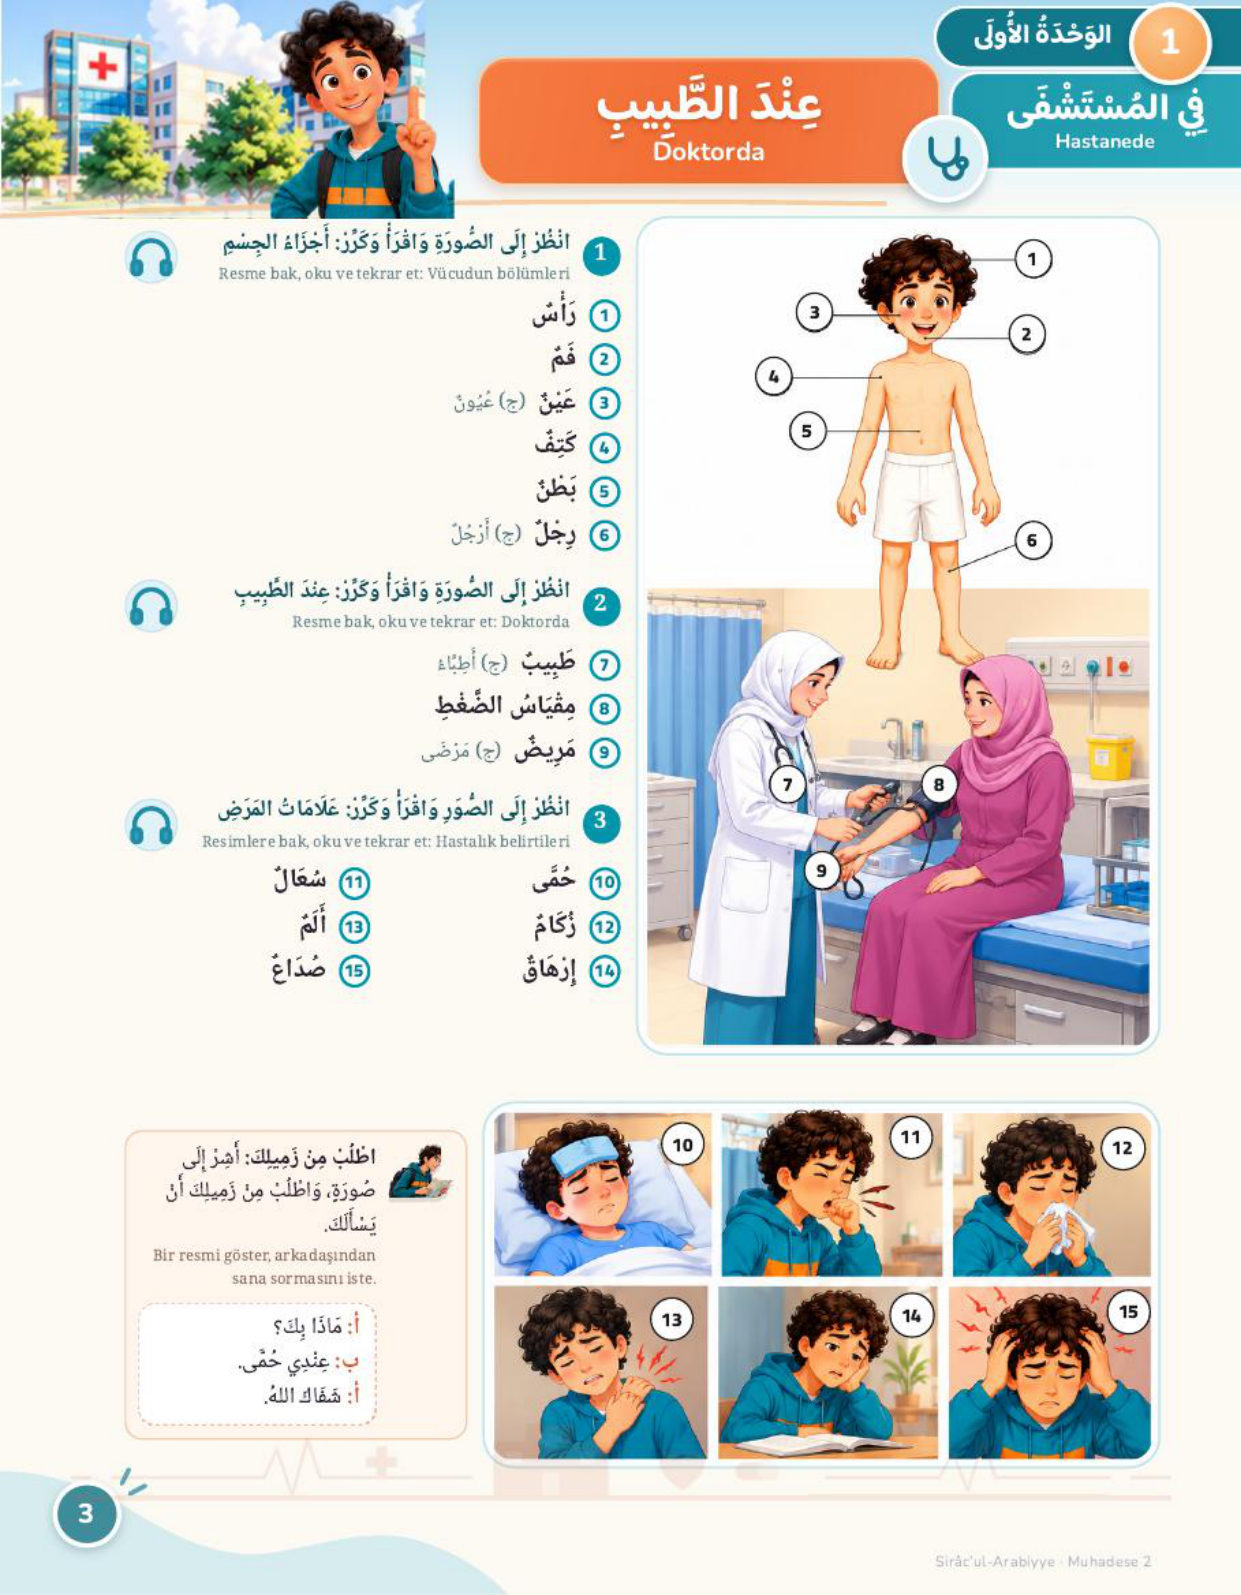
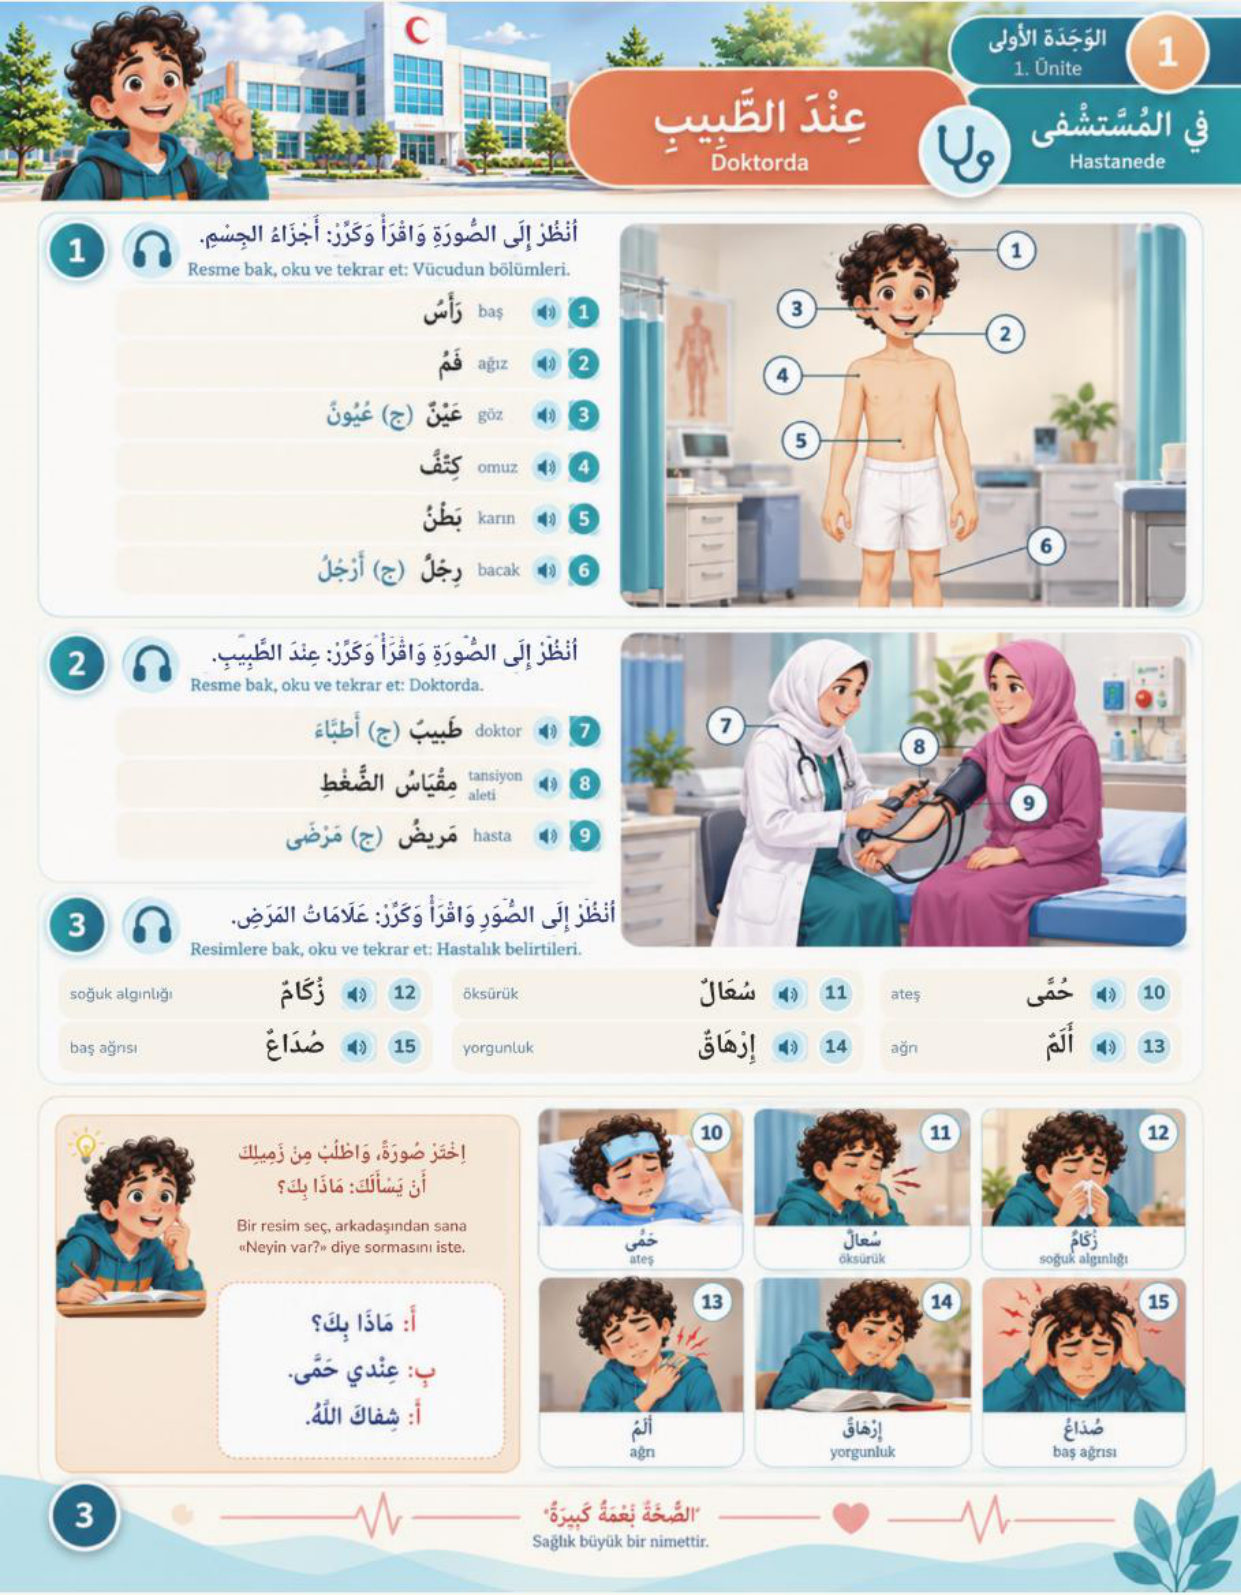
Refresh on unit v41: new L1 p3 tap areas
Claude-Session: https://claude.ai/code/session_01PtPBA3hjiGrZbtaJkVMsKM

diff --git a/l1/book/index.html b/l1/book/index.html
@@ -24,7 +24,7 @@ main{max-width:900px;margin:0 auto;padding:12px 8px 40px;display:flex;flex-direc
 <p class="hint">اضغط على السماعة أو الجملة أو الصورة لتسمع وتشاهد · Dinlemek için dokun</p>
 <section class="pg" id="p1"><img src="p01.jpg" width="1241" height="1595" alt="صفحة 1"></section>
 <section class="pg" id="p2"><img src="p02.jpg" width="1241" height="1595" alt="صفحة 2"><button class="hs" style="left:61.82%;top:15.94%;width:4.37%;height:4.57%" data-src="../a/L1-p02-all.mp3" aria-label="تشغيل"></button><button class="hs" style="left:61.31%;top:20.9%;width:28.05%;height:4.96%" data-src="../a/p02-v01.mp3" aria-label="تشغيل"></button><button class="hs" style="left:61.31%;top:26.91%;width:28.05%;height:4.96%" data-src="../a/p02-v02.mp3" aria-label="تشغيل"></button><button class="hs" style="left:61.31%;top:32.79%;width:28.05%;height:4.96%" data-src="../a/p02-v03.mp3" aria-label="تشغيل"></button><button class="hs" style="left:61.31%;top:38.8%;width:28.05%;height:4.96%" data-src="../a/p02-v04.mp3" aria-label="تشغيل"></button><button class="hs" style="left:61.31%;top:44.68%;width:28.05%;height:4.96%" data-src="../a/p02-v05.mp3" aria-label="تشغيل"></button><button class="hs" style="left:61.31%;top:50.69%;width:28.05%;height:4.96%" data-src="../a/p02-v06.mp3" aria-label="تشغيل"></button><button class="hs" style="left:61.31%;top:56.57%;width:28.05%;height:4.96%" data-src="../a/p02-v07.mp3" aria-label="تشغيل"></button><button class="hs" style="left:61.31%;top:62.45%;width:28.05%;height:4.96%" data-src="../a/p02-v08.mp3" aria-label="تشغيل"></button></section>
-<section class="pg" id="p3"><img src="p03.jpg" width="1241" height="1595" alt="صفحة 3" loading=lazy><button class="hs" style="left:9.58%;top:13.85%;width:5.54%;height:4.44%" data-src="../a/L1-p03-all.mp3" aria-label="تشغيل"></button><button class="hs" style="left:9.58%;top:35.8%;width:5.54%;height:4.44%" data-src="../a/L1-p03-all.mp3" aria-label="تشغيل"></button><button class="hs" style="left:9.58%;top:49.52%;width:5.54%;height:4.44%" data-src="../a/L1-p03-all.mp3" aria-label="تشغيل"></button><button class="hs" style="left:33.6%;top:18.29%;width:16.8%;height:2.61%" data-src="../a/p03-w01.mp3" aria-label="تشغيل"></button><button class="hs" style="left:33.6%;top:21.1%;width:16.8%;height:2.61%" data-src="../a/p03-w02.mp3" aria-label="تشغيل"></button><button class="hs" style="left:33.6%;top:23.84%;width:16.8%;height:2.61%" data-src="../a/p03-w03.mp3" aria-label="تشغيل"></button><button class="hs" style="left:33.6%;top:26.65%;width:16.8%;height:2.61%" data-src="../a/p03-w04.mp3" aria-label="تشغيل"></button><button class="hs" style="left:33.6%;top:29.4%;width:16.8%;height:2.61%" data-src="../a/p03-w05.mp3" aria-label="تشغيل"></button><button class="hs" style="left:33.6%;top:32.14%;width:16.8%;height:2.61%" data-src="../a/p03-w06.mp3" aria-label="تشغيل"></button><button class="hs" style="left:33.6%;top:40.37%;width:16.8%;height:2.61%" data-src="../a/p03-w07.mp3" aria-label="تشغيل"></button><button class="hs" style="left:33.6%;top:43.11%;width:16.8%;height:2.61%" data-src="../a/p03-w08.mp3" aria-label="تشغيل"></button><button class="hs" style="left:33.6%;top:45.73%;width:16.8%;height:2.61%" data-src="../a/p03-w09.mp3" aria-label="تشغيل"></button><button class="hs" style="left:37.29%;top:54.02%;width:13.1%;height:2.61%" data-src="../a/p03-w10.mp3" aria-label="تشغيل"></button><button class="hs" style="left:20.16%;top:54.02%;width:11.76%;height:2.61%" data-src="../a/p03-w11.mp3" aria-label="تشغيل"></button><button class="hs" style="left:37.29%;top:56.83%;width:13.1%;height:2.61%" data-src="../a/p03-w12.mp3" aria-label="تشغيل"></button><button class="hs" style="left:20.16%;top:56.83%;width:11.76%;height:2.61%" data-src="../a/p03-w13.mp3" aria-label="تشغيل"></button><button class="hs" style="left:37.29%;top:59.58%;width:13.1%;height:2.61%" data-src="../a/p03-w14.mp3" aria-label="تشغيل"></button><button class="hs" style="left:20.16%;top:59.58%;width:11.76%;height:2.61%" data-src="../a/p03-w15.mp3" aria-label="تشغيل"></button></section>
+<section class="pg" id="p3"><img src="p03.jpg" width="1241" height="1595" alt="صفحة 3" loading=lazy><button class="hs" style="left:9.58%;top:13.2%;width:5.38%;height:4.18%" data-src="../a/L1-p03-all.mp3" aria-label="تشغيل"></button><button class="hs" style="left:9.58%;top:39.72%;width:5.38%;height:4.18%" data-src="../a/L1-p03-all.mp3" aria-label="تشغيل"></button><button class="hs" style="left:9.58%;top:54.35%;width:5.38%;height:4.18%" data-src="../a/L1-p03-all.mp3" aria-label="تشغيل"></button><button class="hs" style="left:9.24%;top:18.55%;width:40.32%;height:2.61%" data-src="../a/p03-w01.mp3" aria-label="تشغيل"></button><button class="hs" style="left:9.24%;top:21.3%;width:40.32%;height:2.61%" data-src="../a/p03-w02.mp3" aria-label="تشغيل"></button><button class="hs" style="left:9.24%;top:24.3%;width:40.32%;height:2.61%" data-src="../a/p03-w03.mp3" aria-label="تشغيل"></button><button class="hs" style="left:9.24%;top:27.57%;width:40.32%;height:2.61%" data-src="../a/p03-w04.mp3" aria-label="تشغيل"></button><button class="hs" style="left:9.24%;top:30.96%;width:40.32%;height:2.61%" data-src="../a/p03-w05.mp3" aria-label="تشغيل"></button><button class="hs" style="left:9.24%;top:34.23%;width:40.32%;height:2.61%" data-src="../a/p03-w06.mp3" aria-label="تشغيل"></button><button class="hs" style="left:9.24%;top:43.9%;width:40.32%;height:2.61%" data-src="../a/p03-w07.mp3" aria-label="تشغيل"></button><button class="hs" style="left:9.24%;top:47.16%;width:40.32%;height:2.61%" data-src="../a/p03-w08.mp3" aria-label="تشغيل"></button><button class="hs" style="left:9.24%;top:50.56%;width:40.32%;height:2.61%" data-src="../a/p03-w09.mp3" aria-label="تشغيل"></button><button class="hs" style="left:71.39%;top:60.62%;width:27.72%;height:2.61%" data-src="../a/p03-w10.mp3" aria-label="تشغيل"></button><button class="hs" style="left:36.12%;top:60.62%;width:34.44%;height:2.61%" data-src="../a/p03-w11.mp3" aria-label="تشغيل"></button><button class="hs" style="left:4.2%;top:60.62%;width:31.08%;height:2.61%" data-src="../a/p03-w12.mp3" aria-label="تشغيل"></button><button class="hs" style="left:71.39%;top:63.23%;width:27.72%;height:2.61%" data-src="../a/p03-w13.mp3" aria-label="تشغيل"></button><button class="hs" style="left:36.12%;top:63.23%;width:34.44%;height:2.61%" data-src="../a/p03-w14.mp3" aria-label="تشغيل"></button><button class="hs" style="left:4.2%;top:63.23%;width:31.08%;height:2.61%" data-src="../a/p03-w15.mp3" aria-label="تشغيل"></button></section>
 <section class="pg" id="p4"><img src="p04.jpg" width="1241" height="1595" alt="صفحة 4" loading=lazy><button class="hs" style="left:76.94%;top:17.64%;width:5.88%;height:4.57%" data-src="../a/L1-p04-all.mp3" aria-label="تشغيل"></button><button class="hs" style="left:69.54%;top:17.64%;width:5.71%;height:4.44%" data-src="../v/L1-dialogue.mp4" aria-label="تشغيل"></button><button class="hs" style="left:49.72%;top:22.99%;width:40.32%;height:20.9%" data-src="../v/dialogue1_emergency_room.mp4" aria-label="تشغيل"></button><button class="hs" style="left:7.22%;top:22.99%;width:40.15%;height:20.9%" data-src="../v/dialogue2_doctor_room.mp4" aria-label="تشغيل"></button><button class="hs" style="left:50.06%;top:46.77%;width:43.51%;height:4.57%" data-src="../a/p04-d01.mp3" aria-label="تشغيل"></button><button class="hs" style="left:50.06%;top:51.48%;width:43.51%;height:4.05%" data-src="../a/p04-d02.mp3" aria-label="تشغيل"></button><button class="hs" style="left:50.06%;top:55.66%;width:43.51%;height:3.92%" data-src="../a/p04-d03.mp3" aria-label="تشغيل"></button><button class="hs" style="left:50.06%;top:59.71%;width:43.51%;height:4.05%" data-src="../a/p04-d04.mp3" aria-label="تشغيل"></button><button class="hs" style="left:50.06%;top:63.89%;width:43.51%;height:3.92%" data-src="../a/p04-d05.mp3" aria-label="تشغيل"></button><button class="hs" style="left:50.06%;top:67.94%;width:43.51%;height:4.05%" data-src="../a/p04-d06.mp3" aria-label="تشغيل"></button><button class="hs" style="left:50.06%;top:72.12%;width:43.51%;height:3.92%" data-src="../a/p04-d07.mp3" aria-label="تشغيل"></button><button class="hs" style="left:50.06%;top:76.17%;width:43.51%;height:4.83%" data-src="../a/p04-d08.mp3" aria-label="تشغيل"></button><button class="hs" style="left:6.72%;top:46.77%;width:42.33%;height:4.57%" data-src="../a/p04-d09.mp3" aria-label="تشغيل"></button><button class="hs" style="left:6.72%;top:51.48%;width:42.33%;height:4.05%" data-src="../a/p04-d10.mp3" aria-label="تشغيل"></button><button class="hs" style="left:6.72%;top:55.66%;width:42.33%;height:5.23%" data-src="../a/p04-d10b.mp3" aria-label="تشغيل"></button><button class="hs" style="left:6.72%;top:61.01%;width:42.33%;height:4.05%" data-src="../a/p04-d11.mp3" aria-label="تشغيل"></button><button class="hs" style="left:6.72%;top:65.19%;width:42.33%;height:5.23%" data-src="../a/p04-d12.mp3" aria-label="تشغيل"></button><button class="hs" style="left:6.72%;top:70.55%;width:42.33%;height:4.05%" data-src="../a/p04-d13.mp3" aria-label="تشغيل"></button><button class="hs" style="left:6.72%;top:74.73%;width:42.33%;height:3.92%" data-src="../a/p04-d14.mp3" aria-label="تشغيل"></button><button class="hs" style="left:6.72%;top:78.78%;width:42.33%;height:4.96%" data-src="../a/p04-d15.mp3" aria-label="تشغيل"></button></section>
 <section class="pg" id="p5"><img src="p05.jpg" width="1241" height="1595" alt="صفحة 5" loading=lazy></section>
 <section class="pg" id="p6"><img src="p06.jpg" width="1241" height="1595" alt="صفحة 6" loading=lazy><button class="hs" style="left:4.37%;top:21.56%;width:92.05%;height:11.89%" data-src="../v/L1-ex-act.mp4" aria-label="تشغيل"></button></section>
